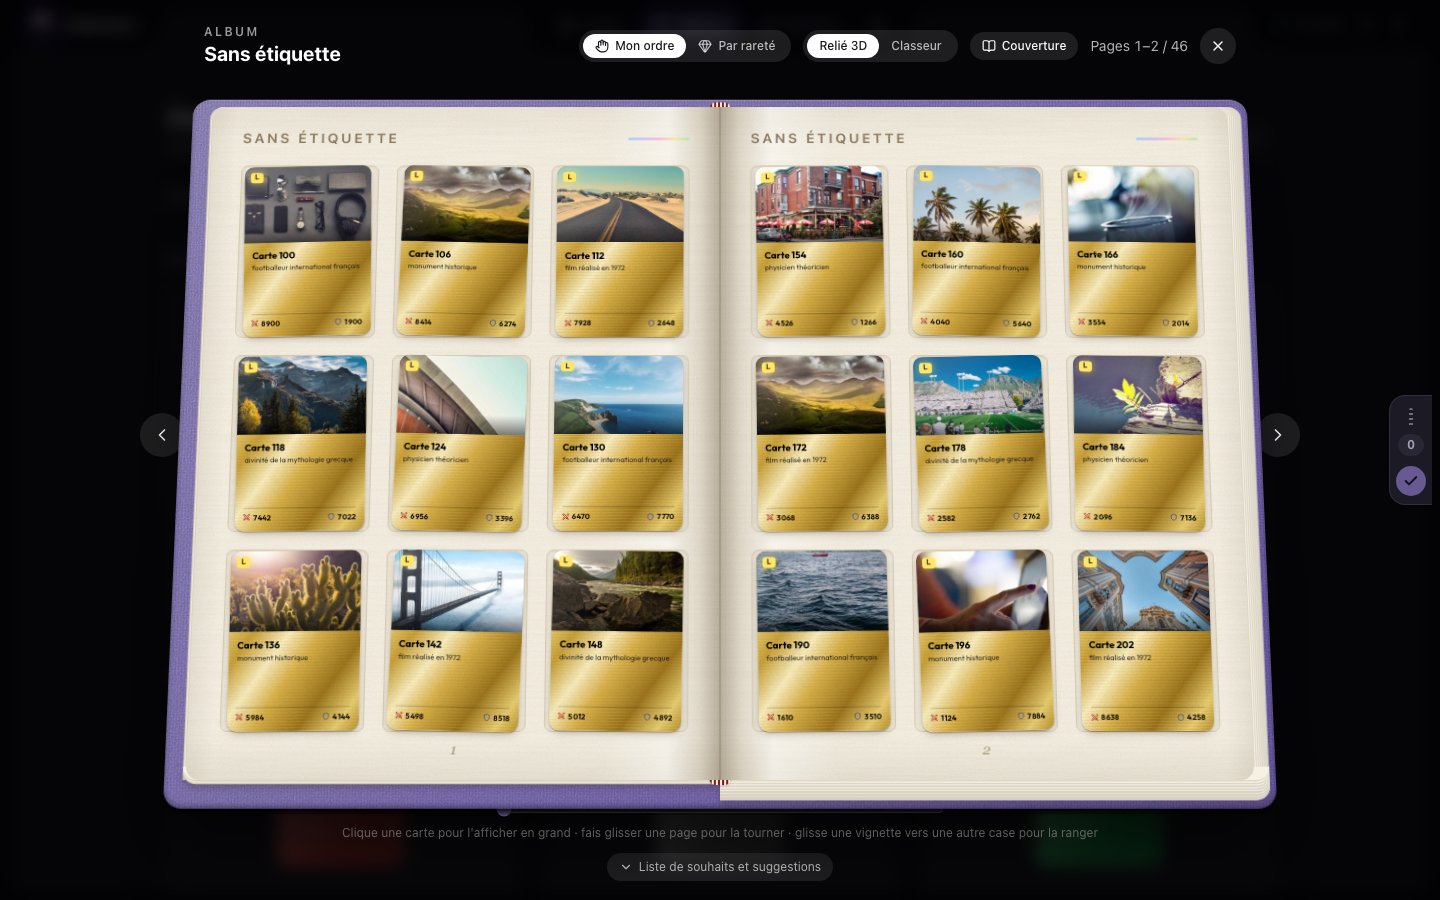
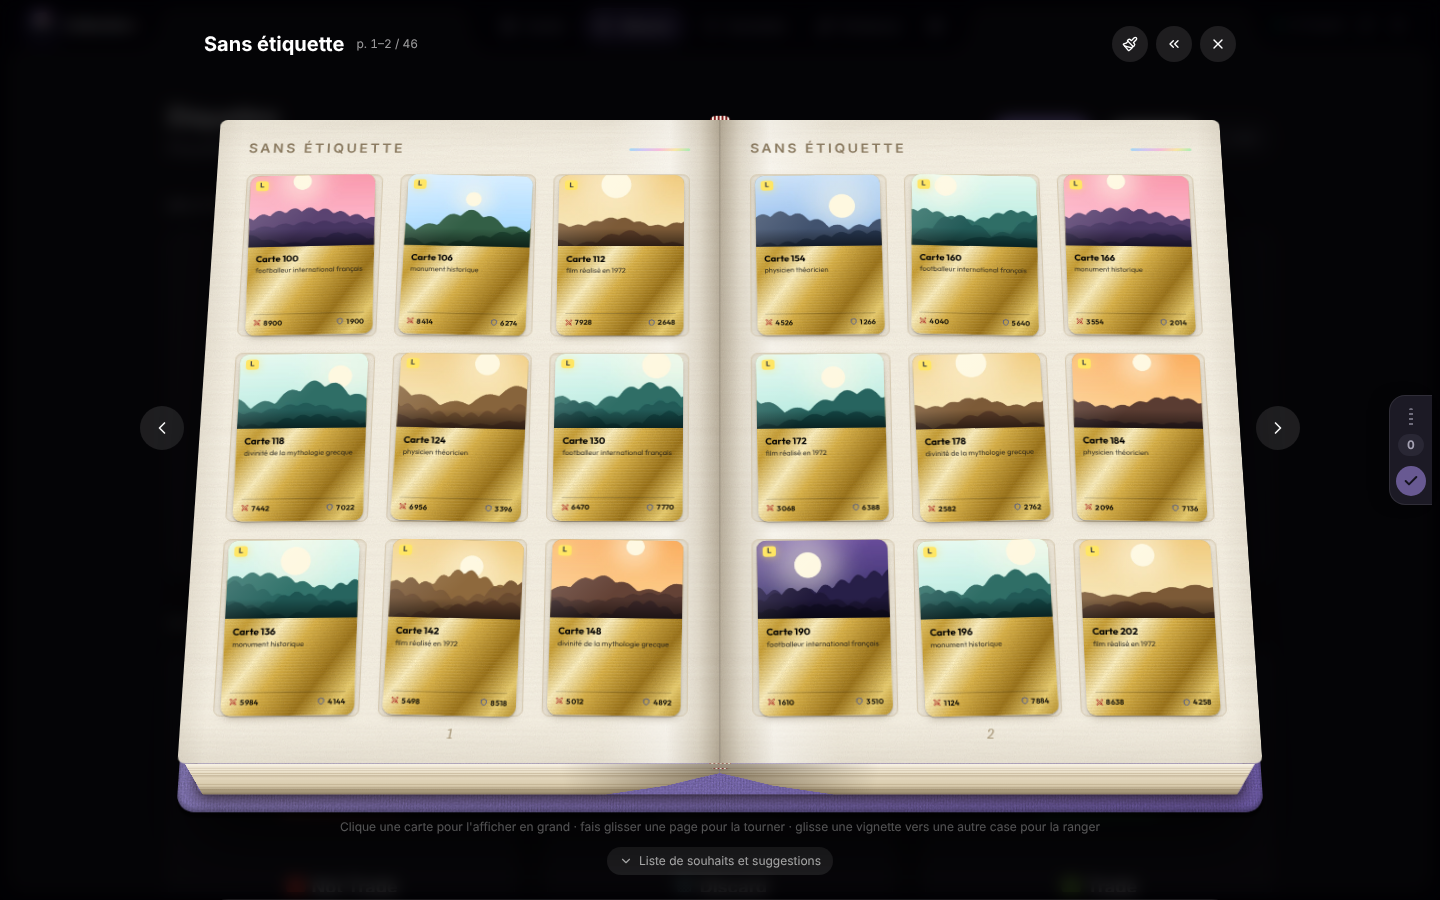
0.9.0 : README et captures mis à jour
- Accroche et image phare (album Grimoire 3D), section « Nouveautés de la 0.9 » : ouverture des
  paquets et habillage full-art, assistant d'album à objectif, Grimoire / Herbier et bibliothèque,
  mode revue, mode Marché, mini-cartes des échanges
- Nouvelles captures : album-grimoire, album-herbier, library, goal-cards, goal-preview, review-deck,
  site-fullart, site-stats ; bannière, Cartes, étiquettes et albums relié / classeur régénérés
- dev/readme-assets.mjs : captures pas à pas (setup, étapes, recadrage) pour ces nouvelles vues
- Description de l'extension et du paquet à jour

Claude-Session: https://claude.ai/code/session_018wZA5zMZGK2K1GY5AtMkDr

diff --git a/wxt.config.ts b/wxt.config.ts
@@ -23,7 +23,7 @@ export default defineConfig({
   manifest: {
     name: 'WikiMasters Collection+',
     short_name: 'Collection+',
-    description: 'Extension non officielle pour WikiMasters : tri Trade / Not Trade, étiquettes et export de ta collection.',
+    description: 'Extension non officielle pour WikiMasters : albums à objectif, livres 3D, ouverture des paquets redessinée, tri Trade / Not Trade.',
     // Releases GitHub : `key` garde le même identifiant d'une version à l'autre (sinon, réglages et albums perdus).
     // Chrome Web Store : il refuse ce champ ; son identifiant est attribué au premier import, et c'est lui qu'il
     // faudra renseigner comme « Item ID » du client OAuth Chrome Extension pour l'export Sheets.

diff --git a/README.md b/README.md
@@ -12,40 +12,86 @@
 
 > Extension Chrome **non officielle** pour [WikiMasters](https://www.wiki-masters.com), sans lien avec l'équipe du jeu.
 
-Range ta collection de cartes Wikipédia : tri **Trade / Not Trade** en quelques clics, **étiquettes** (celles du site), **albums** à feuilleter façon Panini, **albums à objectif** (les rois de France, le top 50 des…) avec les cartes qu'il te reste à trouver, ouverture des paquets redessinée sur WikiMasters, suggestions des meilleures cartes à chercher, **synchronisation entre tes ordinateurs** et **export** CSV / Google Sheets.
+Range ta collection de cartes Wikipédia comme de vrais livres. **Albums à objectif** (les rois de France, le top 50 des…) qui te montrent les cartes qu'il te reste à trouver, **livres en 3D** (relié, classeur, grimoire, herbier) rangés dans une **bibliothèque**, **ouverture des paquets redessinée** sur WikiMasters avec statistiques de tirage, tri **Trade / Not Trade** en quelques clics, **étiquettes**, **synchronisation entre tes ordinateurs** et **export** CSV / Google Sheets.
 
 <p align="center">
-  <img src="docs/images/review-light.png" alt="Vue Revue en mode clair" width="49%">
-  <img src="docs/images/review-dark.png" alt="Vue Revue en mode sombre" width="49%">
+  <img src="docs/images/album-grimoire.png" alt="Album à objectif « Empereurs byzantins » en style Grimoire 3D, avec ses parties" width="100%">
 </p>
+
+## Nouveautés de la 0.9
+
+### Ouverture des paquets sur WikiMasters
+
+<p align="center">
+  <img src="docs/images/site-fullart.png" alt="Révélé d'une carte Légendaire en habillage full-art" width="49%">
+  <img src="docs/images/site-stats.png" alt="Page d'ouverture : paquets en éventail et statistiques de tirage" width="49%">
+</p>
+
+La page d'ouverture de WikiMasters est redessinée : un bouton rond entouré de tes paquets en 3D, le compteur et le temps avant la réserve pleine, puis un **révélé animé par rareté** (sons, confettis, pastille « New ») où tu ranges la carte sans l'ouvrir. Nouvel habillage **full-art** : la photo sur toute la carte, avec le début de son article Wikipédia. En dessous, les **statistiques de tirage** : taux de drop, prévisions, records, cartes de tes albums ◇, histogramme sur 30 jours et image à partager.
+
+### Albums à objectif repensés
+
+<p align="center">
+  <img src="docs/images/goal-cards.png" alt="Assistant d'album à objectif : les cartes retenues de ta liste" width="49%">
+  <img src="docs/images/goal-preview.png" alt="Assistant d'album à objectif : aperçu, tri, couleur et style du livre" width="49%">
+</p>
+
+Décris ton album (« les empereurs en Europe après 1600 ») ou **colle ta propre liste** (parties « # Titre », colonnes de tableur, CSV) : chaque ligne est rapprochée de sa page Wikipédia. Tu choisis les cartes, l'ordre (liste, rareté, date, A → Z, notoriété, attaque, défense), la couleur et le style du livre. Un **code court** (« CP1-… ») permet de partager l'album : il est recréé à l'identique chez un ami.
+
+### Livres en 3D et bibliothèque
+
+<p align="center">
+  <img src="docs/images/album-herbier.png" alt="Album à objectif en style Herbier" width="49%">
+  <img src="docs/images/library.png" alt="Bibliothèque : un livre par album à objectif sur l'étagère" width="49%">
+</p>
+
+Deux nouveaux styles, **Grimoire** (trois couvertures) et **Herbier**, en plus du relié et du classeur, avec une vraie 3D (couverture, tranches, coins) et un mode **« Style d'album »** pour régler couverture, pages, cartes et ambiance en direct. Coller une carte devient un petit spectacle (chute 3D, onde de choc, son). Tes albums à objectif et tes collections finies se rangent dans une **bibliothèque** : un livre par album, plus haut à mesure qu'il se remplit, halo et sceau une fois fini.
+
+### Et aussi
+
+<img src="docs/images/review-deck.png" alt="Mode revue dans la page Cartes" width="49%" align="right">
+
+- **Mode revue** (touche `R` dans Cartes) : tes cartes une par une, comme à l'ouverture d'un paquet, avec les mêmes raccourcis (← Trade, ↓ Not Trade, → Discard), lot et ordre au choix, avance auto et récapitulatif.
+- **Mode Marché** dans les albums à objectif : les cartes qu'il te manque actuellement en vente sur le marché de WikiMasters, d'un clic.
+- **Mini-cartes** sur la page des échanges de WikiMasters.
+- En-tête d'album simplifié.
+
+<br clear="right">
 
 ## Fonctionnalités
 
 - **Visite guidée** : à la première ouverture, une présentation pas à pas des quatre pages met en lumière chaque fonction. Passable, et relançable depuis **Paramètres › Apparence › Aide**.
 - **Cartes** : toutes tes cartes, filtres compacts (statut, rareté, étiquettes séparées Collection / Rangement, doublons, nouvelles), sélection multiple, raccourcis clavier (`T` Trade, `N` Not Trade, `E` étiqueter, `A` tout, `/` recherche, `Entrée` afficher en grand).
 - **Boîte d'envoi** : rien ne part sur le site tout de suite. Statuts, étiquettes et albums s'accumulent dans un volet à droite (poignée avec le nombre de modifications) et partent d'un clic ; un tracé aux couleurs de la palette fait le tour du cadre pendant l'envoi.
-- **Cartes au style WikiMasters** : format, couleurs de rareté et statistiques du jeu, dix habillages au choix (imprimé, premium foil, matière, full-art), reflet holographique au survol, plus intense selon la rareté.
+- **Mode revue** : touche `R` dans Cartes, les cartes une à une avec les raccourcis du révélé, lot et ordre au choix, avance auto, récapitulatif.
+- **Cartes au style WikiMasters** : format, couleurs de rareté et statistiques du jeu, dix habillages au choix (imprimé, premium foil, matière, full-art avec l'intro Wikipédia), reflet holographique au survol, plus intense selon la rareté.
 - **Carte en grand** : la carte, ses infos et, à côté, le début de son article Wikipédia (dépliable, repliable) ; ← → pour parcourir.
 - **Trade / Not Trade** : deux étiquettes natives du site, option « tout Trade par défaut », pastilles sur les cartes de WikiMasters.
-- **Étiquettes et albums** : un seul bouton **Nouveau** pour une étiquette / album, un album à objectif ou une étiquette de rangement. Chaque étiquette s'ouvre en album à feuilleter, **relié** ou **classeur** : rangement à la main ou vue par rareté (sans perdre ton ordre), croix pour retirer une carte (elle passe dans « Écartées »), description de couverture rédigée par l'IA.
-- **Albums à objectif** : décris ce que tu veux réunir (« les rois de France », « les empereurs en Europe après 1600 », « le top 50 des personnalités féminines françaises avant 1900 »). Collection+ cherche une page « Liste de… » de Wikipédia, une liste Wikidata notée de 0 à 1 selon les dates et le lieu, ou traduit ta phrase en règles modifiables (avec une clé Gemini gratuite, facultative). Tu verrouilles la liste, l'album prend le préfixe « ◇ » et son propre groupe en tête de la page Albums (au-dessus des collections et des rangements), avec ses cases numérotées : cartes collées, cartes possédées à coller d'un clic, cartes à trouver. Survole une carte pour voir l'article.
+- **Étiquettes et albums** : un seul bouton **Nouveau** pour une étiquette / album, un album à objectif ou une étiquette de rangement. Chaque étiquette s'ouvre en livre à feuilleter, **relié**, **classeur**, **grimoire** ou **herbier**, en 3D ou à plat, réglable en direct (« Style d'album ») : rangement à la main ou vue par rareté (sans perdre ton ordre), croix pour retirer une carte (elle passe dans « Écartées »), description de couverture rédigée par l'IA.
+- **Albums à objectif** : décris ce que tu veux réunir (« les rois de France », « les empereurs en Europe après 1600 », « le top 50 des personnalités féminines françaises avant 1900 ») ou colle ta propre liste (texte, tableur, CSV) rapprochée de Wikipédia. Collection+ cherche une page « Liste de… » de Wikipédia, une liste Wikidata notée de 0 à 1 selon les dates et le lieu, ou traduit ta phrase en règles modifiables (avec une clé Gemini gratuite, facultative). Tu choisis les cartes, l'ordre et le style du livre ; l'album prend le préfixe « ◇ », ses parties et ses cases numérotées : cartes collées, cartes possédées à coller d'un clic, cartes à trouver. Partage-le par un code court « CP1-… ».
+- **Bibliothèque** : en tête de la page Albums, un livre par album à objectif ou collection finie, rangé par avancement, style, date, couleur ou A → Z.
 - **Enhance** : cartes à ranger dans tes albums, nouveaux albums possibles d'après Wikidata, fiches d'album rédigées par l'IA intégrée de Chrome.
 - **Souhaits** : une page dédiée à ta liste de souhaits WikiMasters (le cœur du site) : recherche dans le catalogue pour en ajouter, filtre « À trouver » et « Chez tes amis » (qui possède la carte, pour proposer un échange), et les souhaits notés sous tes albums, à envoyer sur le site d'un clic.
 - **Liste de souhaits et suggestions** : sous chaque album, les cartes les plus connues de son thème que tu n'as pas encore.
 - **Export** : CSV, copie pour tableur, ou classeur Google Sheets mis en forme.
 - **Doublons et défausse** : « Mes doublons » liste tes cartes en double ; les cartes marquées Discard sont défaussées depuis la boîte d'envoi, après un récapitulatif (un exemplaire toujours gardé, jamais les shiny ni les favoris).
-- **Collections finies** : une étiquette terminée prend « ✓ » et la couleur or, reconnue sur tous tes appareils ; les collections finies passent en tête de la page Albums.
+- **Collections finies** : une étiquette terminée prend « ✓ » et la couleur or, reconnue sur tous tes appareils ; elle rejoint la bibliothèque avec son halo et son sceau.
 - **Sur WikiMasters** (chaque fonction se règle dans le popup ou Paramètres › Sur WikiMasters) :
   - page d'ouverture redessinée : bouton rond entouré de tes paquets en 3D (prêts, en charge, à venir), compteur et temps avant la réserve pleine ;
   - révélé animé par rareté avec sons, pastille « New », récap du paquet, touche Espace, révélé rapide, cartes qui respirent et habillage Collection+ ;
   - rangement sans ouvrir la carte : rangements à gauche, collections à droite, statut Trade / Not Trade / Discard en arc (flèches ← ↓ →), recherche et création d'étiquette ;
   - album à objectif : quand la carte tirée est dans la liste, l'album sort de sa ligne et la carte s'y colle ;
   - statistiques de tirage (aujourd'hui, 7 jours ou tout ; résumé, taux de drop comparés, prévisions, records, cartes d'albums ◇, histogramme sur 30 jours, frise des paquets, image à partager ; deux colonnes sur grand écran, une sur mobile, repliables en une ligne), compteur de paquets dans l'onglet et sur l'icône, notifications (réserve pleine, pack PRO) ;
-  - plein écran 3D sur les cartes, liste de souhaits mise en avant sur le marché et les échanges (cœur pour en ajouter), images libres en option.
+  - plein écran 3D sur les cartes, mini-cartes sur la page des échanges, liste de souhaits mise en avant sur le marché et les échanges (cœur pour en ajouter), images libres en option.
 - **Synchronisation entre ordinateurs** : albums à objectif, mises en page, cartes écartées, souhaits, règles et réglages suivent sur chaque ordinateur où tu es connecté à Chrome (synchronisation activée). Rien à configurer, aucun compte en plus ; les cartes et étiquettes, elles, sont déjà sur WikiMasters. État et bouton « Synchroniser » dans **Paramètres › Synchro et export**.
 - **Popup** : bouton « Synchroniser » (dernier échange entre ordinateurs), compteur de paquets, historique et export CSV des tirages, réglages rapides et choix du thème.
 - **Thèmes** : mode clair, sombre ou auto, et 10 palettes qui recolorent l'interface, le bouton sur le site et l'icône de l'extension. Sur le site, trois styles : couleur pleine, ambiance teintée ou irisé.
 - **Cache local** : la collection s'affiche instantanément, seuls les changements sont rechargés.
+
+<p align="center">
+  <img src="docs/images/review-light.png" alt="Page Cartes en mode clair" width="49%">
+  <img src="docs/images/review-dark.png" alt="Page Cartes en mode sombre" width="49%">
+</p>
 
 <p align="center">
   <img src="docs/images/onboarding.png" alt="Visite guidée à la première ouverture" width="100%">
@@ -73,6 +119,8 @@ Au repos (en haut) et au survol (en bas), de Commun à Légendaire :
 </p>
 
 ## Albums
+
+Quatre styles de livre : **relié**, **classeur**, **grimoire** et **herbier** (plus haut). Ci-dessous, le relié et le classeur.
 
 <p align="center">
   <img src="docs/images/album-relie.png" alt="Album relié : toile, tranches de pages et papier crème" width="49%">
